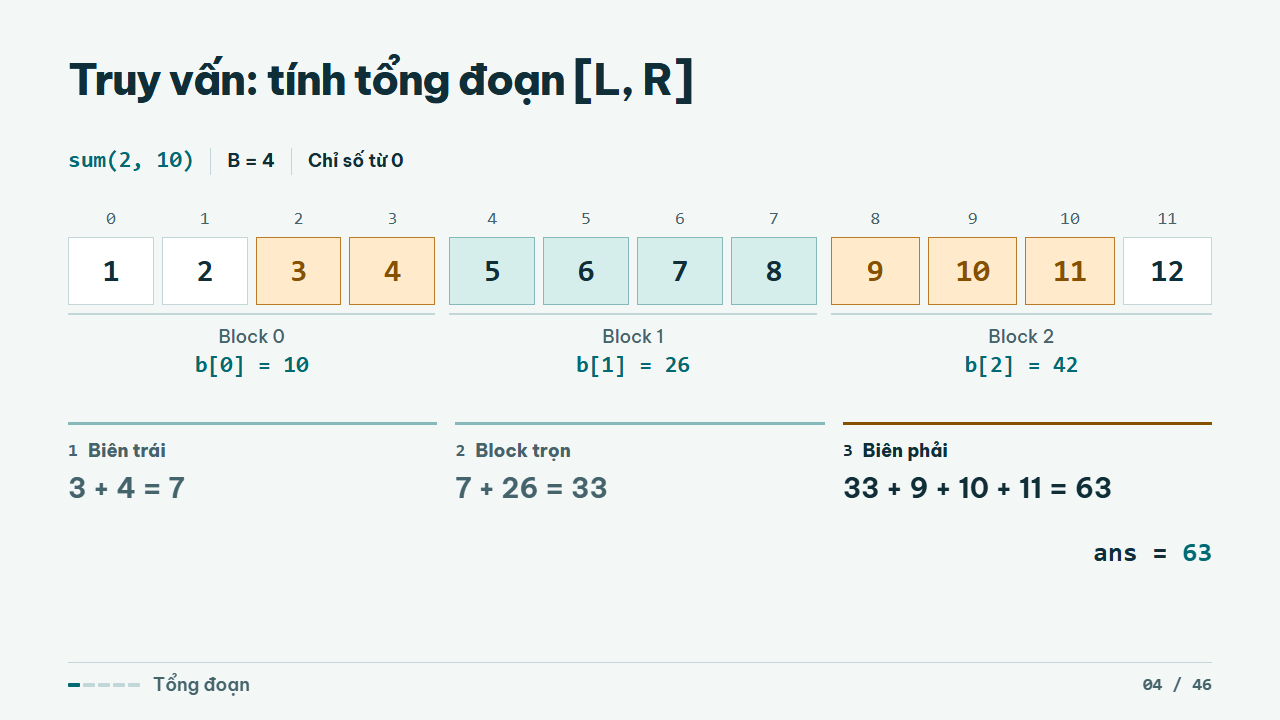
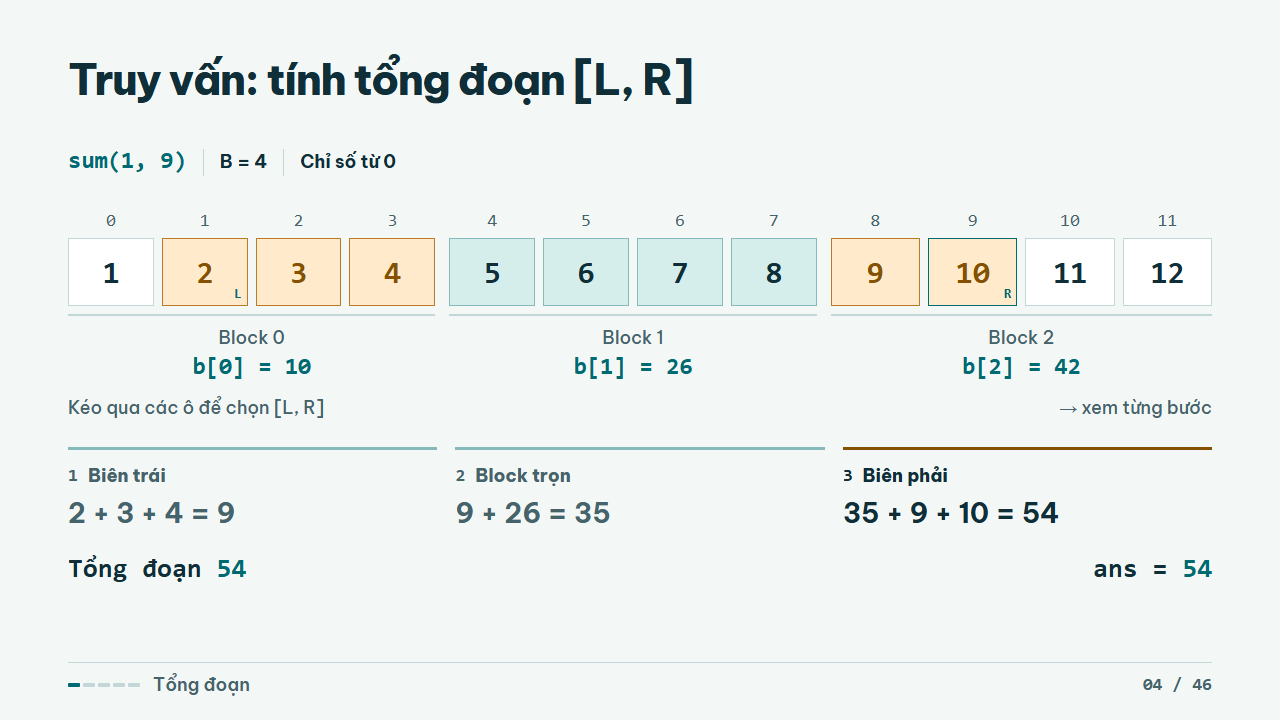
Make range sums interactive and improve code contrast

diff --git a/components/SumDemo.vue b/components/SumDemo.vue
@@ -1,31 +1,149 @@
 <script setup lang="ts">
-import { computed } from 'vue'
+import { useNav, useSlideContext } from '@slidev/client'
+import { computed, ref } from 'vue'
 import BlockStrip from './BlockStrip.vue'
 
 const props = defineProps<{ step: number }>()
+const { go, next, prev, currentPage } = useNav()
+const { $page } = useSlideContext()
 const values = [1, 2, 3, 4, 5, 6, 7, 8, 9, 10, 11, 12]
-const steps = [
-  { label: 'Biên trái', indices: [2, 3], tone: 'edge', expression: '3 + 4 = 7' },
-  { label: 'Block trọn', indices: [4, 5, 6, 7], tone: 'retained', expression: '7 + 26 = 33' },
-  { label: 'Biên phải', indices: [8, 9, 10], tone: 'edge', expression: '33 + 9 + 10 + 11 = 63' },
-]
-const totals = ['?', 7, 33, 63]
-const step = computed(() => Math.min(props.step, steps.length))
-const marks = computed(() =>
-  Object.fromEntries(steps.slice(0, step.value).flatMap(part => part.indices.map(i => [i, part.tone]))),
+const blockSize = 4
+const example = [2, 10] as const
+const partLabels = ['Biên trái', 'Block trọn', 'Biên phải']
+const sum = (terms: number[]) => terms.reduce((total, value) => total + value, 0)
+const blockTotals = Array.from({ length: Math.ceil(values.length / blockSize) }, (_, block) =>
+  sum(values.slice(block * blockSize, (block + 1) * blockSize)),
 )
+const captions = blockTotals.map((total, block) => 'b[' + block + '] = ' + total)
+
+const anchor = ref<number>()
+const end = ref<number>()
+const pointerId = ref<number>()
+const choosingWithKeyboard = ref(false)
+const step = computed(() => pointerId.value === undefined ? Math.min(props.step, partLabels.length) : 0)
+const picked = computed(() => {
+  if (anchor.value === undefined || end.value === undefined) return
+  return [Math.min(anchor.value, end.value), Math.max(anchor.value, end.value)] as const
+})
+const range = computed(() => picked.value ?? (step.value > 0 ? example : undefined))
+
+const parts = computed(() => {
+  const [left, right] = range.value ?? [0, -1]
+  const leftEnd = Math.min(Math.ceil(left / blockSize) * blockSize, right + 1)
+  const middleEnd = Math.max(leftEnd, Math.floor((right + 1) / blockSize) * blockSize)
+  const spans = [[left, leftEnd], [leftEnd, middleEnd], [middleEnd, right + 1]]
+  let subtotal = 0
+
+  return spans.map(([start, stop], index) => {
+    const terms = index === 1
+      ? blockTotals.slice(start / blockSize, stop / blockSize)
+      : values.slice(start, stop)
+    const addends = subtotal === 0 ? terms : [subtotal, ...terms]
+    subtotal += sum(terms)
+    return {
+      label: partLabels[index],
+      start, stop, subtotal,
+      tone: index === 1 ? 'retained' : 'edge',
+      expression: terms.length === 0
+        ? 'Không có'
+        : addends.length === 1 ? String(subtotal) : addends.join(' + ') + ' = ' + subtotal,
+    }
+  })
+})
+
+const marks = computed(() => Object.fromEntries(parts.value.flatMap((part, index) =>
+  Array.from({ length: part.stop - part.start }, (_, offset) => [
+    part.start + offset,
+    step.value > index ? part.tone : 'in-range',
+  ]),
+)))
+
+function cellIndex(event: Event) {
+  const cell = (event.target as HTMLElement).closest<HTMLButtonElement>('button[data-index]')
+  return cell ? Number(cell.dataset.index) : undefined
+}
+
+function startSelection(index: number) {
+  anchor.value = end.value = index
+  if (props.step > 0 && currentPage.value === $page.value) void go($page.value, 0)
+}
+
+function beginDrag(event: PointerEvent) {
+  const index = cellIndex(event)
+  if (index === undefined || pointerId.value !== undefined || !event.isPrimary || event.button !== 0) return
+  event.preventDefault()
+  const grid = event.currentTarget as HTMLElement
+  grid.setPointerCapture(event.pointerId)
+  pointerId.value = event.pointerId
+  choosingWithKeyboard.value = false
+  startSelection(index)
+}
+
+function moveDrag(event: PointerEvent) {
+  if (event.pointerId !== pointerId.value) return
+  const grid = event.currentTarget as HTMLElement
+  let nearest = Infinity
+  let index = end.value
+  for (const cell of grid.querySelectorAll<HTMLButtonElement>('button[data-index]')) {
+    const bounds = cell.getBoundingClientRect()
+    const distance = Math.abs(event.clientX - (bounds.left + bounds.width / 2))
+    if (distance < nearest) {
+      nearest = distance
+      index = Number(cell.dataset.index)
+    }
+  }
+  end.value = index
+}
+
+function endDrag(event: PointerEvent) {
+  if (event.pointerId === pointerId.value) pointerId.value = undefined
+}
+
+function pickWithKeyboard(event: KeyboardEvent) {
+  const index = cellIndex(event)
+  if (index === undefined) return
+  event.preventDefault()
+  event.stopPropagation()
+  if (event.repeat) return
+  if (choosingWithKeyboard.value) end.value = index
+  else startSelection(index)
+  choosingWithKeyboard.value = !choosingWithKeyboard.value
+}
 </script>
 
 <template>
-  <div class="array-demo" :data-step="step">
-    <p class="demo-label"><code>sum(2, 10)</code><span>B = 4</span><span>Chỉ số từ 0</span></p>
-    <BlockStrip :values="values" :block-size="4" :captions="['b[0] = 10', 'b[1] = 26', 'b[2] = 42']" :marks="marks" :active-block="step === 2 ? 1 : undefined" />
+  <div class="array-demo range-demo" :data-step="step">
+    <p class="demo-label">
+      <code v-if="range">sum({{ range[0] }}, {{ range[1] }})</code>
+      <code v-else>sum(L, R)</code>
+      <span>B = {{ blockSize }}</span><span>Chỉ số từ 0</span>
+    </p>
+    <div
+      class="range-picker"
+      role="group"
+      aria-label="Kéo chuột hoặc nhấn Enter trên hai ô để chọn đoạn"
+      @pointerdown.stop="beginDrag"
+      @pointermove="moveDrag"
+      @pointerup="endDrag"
+      @pointercancel="endDrag"
+      @lostpointercapture="endDrag"
+      @keydown.enter="pickWithKeyboard"
+      @keydown.space="pickWithKeyboard"
+      @keydown.left.stop.prevent="prev()"
+      @keydown.right.stop.prevent="next()"
+    >
+      <BlockStrip :values="values" :block-size="blockSize" :captions="captions" :marks="marks" :selection="range" selectable />
+    </div>
+    <p class="range-help small">Kéo qua các ô để chọn [L, R] <span>→ xem từng bước</span></p>
     <div class="demo-track">
-      <div v-for="(part, index) in steps" :key="part.label" class="demo-step" :class="{ 'is-current': step === index + 1, 'is-complete': step > index + 1 }">
+      <div v-for="(part, index) in parts" :key="part.label" class="demo-step" :class="{ 'is-current': step === index + 1, 'is-complete': step > index + 1 }">
         <strong><span class="demo-step-num">{{ index + 1 }}</span>{{ part.label }}</strong>
         <span v-if="step > index" class="formula-text step-change">{{ part.expression }}</span>
       </div>
     </div>
-    <div class="demo-total" aria-live="polite">ans = <strong :key="step" class="step-change">{{ totals[step] }}</strong></div>
+    <div class="range-totals" aria-live="polite">
+      <div v-if="picked" class="demo-total">Tổng đoạn <strong>{{ parts.at(-1)?.subtotal }}</strong></div>
+      <div v-if="step" class="demo-total">ans = <strong :key="step" class="step-change">{{ parts[step - 1].subtotal }}</strong></div>
+    </div>
   </div>
 </template>

diff --git a/styles/index.css b/styles/index.css
@@ -25,7 +25,7 @@
   --type-body: 24px;
   --type-meta: 18px;
   --type-formula: 27px;
-  --type-code: 23px;
+  --type-code: 24px;
   --motion-ease: cubic-bezier(.22, .66, .27, 1);
 }
 
@@ -103,6 +103,25 @@
 .demo-total { display: flex; justify-content: flex-end; align-items: baseline; gap: 15px; margin-top: 28px; font: 600 var(--type-formula)/1.2 var(--mono); }
 .demo-total strong { min-width: 2ch; color: var(--teal); text-align: right; }
 .formula-text { font-size: var(--type-formula); font-variant-numeric: tabular-nums; font-weight: 700; }
+.range-picker { touch-action: none; user-select: none; }
+.range-picker .array-strip { margin-bottom: 12px; }
+.range-picker .array-cell { position: relative; padding: 0; cursor: crosshair; }
+.range-picker .array-cell:hover { border-color: var(--teal); }
+.range-picker .array-cell:focus-visible { outline: 3px solid var(--teal); outline-offset: 2px; }
+.range-picker .in-range { border-color: #86b9b9; background: var(--surface-tint); }
+.range-picker [data-boundary]::after {
+  content: attr(data-boundary);
+  position: absolute;
+  right: 5px;
+  bottom: 4px;
+  color: var(--teal);
+  font: 700 14px/1 var(--mono);
+}
+.range-demo .range-help { display: flex; justify-content: space-between; margin-bottom: 0; }
+.range-demo .demo-track { margin-top: 26px; }
+.range-totals { display: flex; justify-content: space-between; gap: 24px; }
+.range-totals .demo-total { margin-top: 18px; }
+.range-totals .demo-total:only-child { margin-left: auto; }
 
 .mo-demo .array-strip { margin-bottom: 12px; }
 .pointer-track { position: relative; height: 48px; }
@@ -150,7 +169,7 @@
 .slidev-layout.code-slide {
   --slidev-code-font-family: var(--mono);
   --slidev-code-font-size: var(--type-code);
-  --slidev-code-line-height: 28px;
+  --slidev-code-line-height: 27px;
   --slidev-code-padding: 16px;
   --slidev-code-margin: 18px 0 16px;
 }
@@ -160,12 +179,12 @@
 }
 html:not(.dark) .code-slide pre.shiki,
 html:not(.dark) .code-slide pre.shiki span {
-  color: var(--ink);
-  color: color-mix(in srgb, var(--shiki-light, var(--ink)) 62%, var(--ink));
+  color: var(--shiki-light, var(--ink));
 }
 .code-slide .slidev-code code { font-size: inherit; }
+.code-slide .slidev-code code .line::before { color: #425d65; opacity: 1; }
 .code-slide pre.shiki .slidev-code-dishonored { opacity: 1; }
-html:not(.dark) .code-slide pre.shiki .slidev-code-dishonored span { color: var(--muted); }
+html:not(.dark) .code-slide pre.shiki .slidev-code-dishonored span { color: var(--ink); }
 .code-slide pre.shiki:has(.slidev-code-dishonored) .slidev-code-highlighted {
   background: var(--teal-pale);
   box-shadow: -3px 0 var(--teal);

diff --git a/components/BlockStrip.vue b/components/BlockStrip.vue
@@ -8,15 +8,30 @@ const props = defineProps<{
   activeBlock?: number
   marks?: Record<number, string>
   indexOnly?: boolean
+  selectable?: boolean
+  selection?: readonly [number, number]
 }>()
 
 const groups = computed(() => {
   const size = props.blockSize ?? props.values.length
   return Array.from({ length: Math.ceil(props.values.length / size) }, (_, block) => {
     const start = block * size
-    return { start, values: props.values.slice(start, start + size) }
+    const cells = props.values.slice(start, start + size).map((value, offset) => ({ value, index: start + offset }))
+    return { start, cells }
   })
 })
+
+function isSelected(index: number) {
+  const { selection } = props
+  return !!selection && index >= selection[0] && index <= selection[1]
+}
+
+function boundaryAt(index: number) {
+  if (!props.selection) return
+  const [left, right] = props.selection
+  if (index === left) return left === right ? 'L = R' : 'L'
+  if (index === right) return 'R'
+}
 </script>
 
 <template>
@@ -26,13 +41,24 @@ const groups = computed(() => {
       :key="group.start"
       class="array-group"
       :style="{
-        gridColumn: 'span ' + group.values.length,
-        gridTemplateColumns: 'repeat(' + group.values.length + ', minmax(0, 1fr))',
+        gridColumn: 'span ' + group.cells.length,
+        gridTemplateColumns: 'repeat(' + group.cells.length + ', minmax(0, 1fr))',
       }"
     >
-      <div v-for="(value, offset) in group.values" :key="offset" class="array-item">
-        <span v-if="!indexOnly" class="array-index">{{ group.start + offset }}</span>
-        <span class="array-cell" :class="marks?.[group.start + offset]">{{ value }}</span>
+      <div v-for="{ value, index } in group.cells" :key="index" class="array-item">
+        <span v-if="!indexOnly" class="array-index">{{ index }}</span>
+        <component
+          :is="selectable ? 'button' : 'span'"
+          :type="selectable ? 'button' : undefined"
+          class="array-cell"
+          :class="marks?.[index]"
+          :data-index="selectable ? index : undefined"
+          :aria-label="selectable ? 'Ô ' + index + ', giá trị ' + value : undefined"
+          :aria-pressed="selectable ? isSelected(index) : undefined"
+          :data-boundary="selectable ? boundaryAt(index) : undefined"
+        >
+          {{ value }}
+        </component>
       </div>
       <div v-if="indexOnly || captions?.[block]" class="array-caption" :class="{ active: activeBlock === block }">
         Block {{ block }}

diff --git a/setup/shiki.ts b/setup/shiki.ts
@@ -1,0 +1,6 @@
+export default () => ({
+  themes: {
+    light: 'github-light-high-contrast',
+    dark: 'github-dark-high-contrast',
+  },
+})

diff --git a/README.md b/README.md
@@ -15,6 +15,7 @@ Mở [bản trình chiếu](http://localhost:3047/) hoặc [chế độ người
 
 - **→ / ←** tiến hoặc lùi một bước bấm. Khi hết bước, phím chuyển sang slide tiếp theo hoặc trước đó.
 - Ví dụ tổng đoạn ở slide 4, lazy ở slide 16, cửa sổ Mo ở slide 22 và ví dụ mode ở slide 27–28.
+- Ở slide 4, giữ chuột và kéo qua các ô để chọn đoạn, hoặc dùng Tab và Enter để đặt hai đầu. Phím → chạy lần lượt ba phần của đoạn đã chọn, hoặc dùng ví dụ gốc nếu chưa có đoạn.
 - Slide dùng chuyển cảnh ngắn theo chiều bấm và tôn trọng thiết lập giảm chuyển động của hệ điều hành.
 - Speaker notes có số trang PDF và chỉ dẫn tương ứng với từng lần bấm.
 

diff --git a/slides.md b/slides.md
@@ -85,6 +85,7 @@ clicks: 3
 PDF trang 3–8  
 Mảng dùng chỉ số từ 0  
 Block 0 chứa a[0..3], block 1 chứa a[4..7], block 2 chứa a[8..11]
+Kéo chuột qua các ô để chọn đoạn khác, hoặc bấm mũi tên phải khi chưa chọn để chạy ví dụ [2, 10]
 [click] Cộng a[2] và a[3] để chạm đầu block 1
 [click] Block 1 nằm trọn trong truy vấn  
 Lấy một tổng đã lưu rồi nhảy sang i = 8
